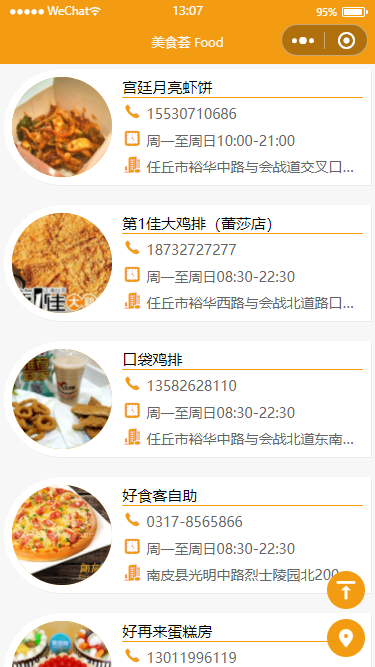
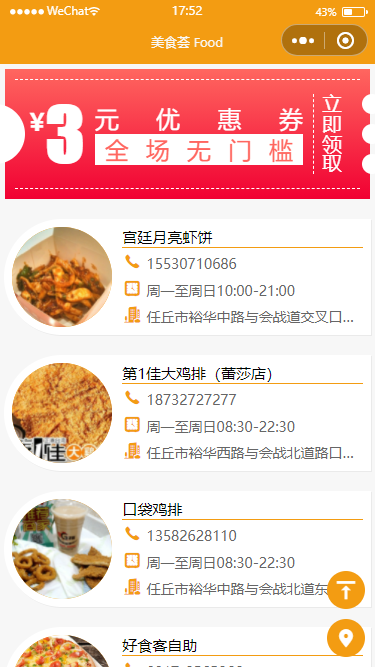
vue mp

diff --git a/minip/case9.html b/minip/case9.html
@@ -39,9 +39,13 @@
                 <div>项目创建 - 略</div>
                 <div>账号申请 - 略</div>
                 <div>SDK下载并引入 - 略</div>
-                <div>打开项目美食列表 <span class="warn">首页</span>，增加2个按钮，可以使用字体图标，固定定位fixed在视口右下角</div>
+                <div>打开项目美食列表项目</div>
+                <p><span class="warn">增加</span> 一个地图页面 map</p>
+                <p><span class="warn">增加</span> 一个优惠券页面 promotion</p>
+                <div>打开<span class="warn">首页</span>页面</div>
                 <p>增加一个返回顶部按钮，绑定事件toTop，点击后，返回到美食列表页</p>
                 <p>增加一个跳转地图按钮，绑定事件toMap，点击后，跳转到美食地图页面</p>
+                <p>增加优惠券内容，单击跳转到优惠券活动页面 - 包括新到、快过期、满折券、满减券、立减券等；略</p>
                 <pre>
 toTop() {
     wx.pageScrollTo({
@@ -52,16 +56,23 @@ toTop() {
         complete: () => console.log('scroll done')
     })
 },
+
 toMap() {
     wx.navigateTo({
         url: '../map/map',
+    })
+},
+
+toPromotion() {
+    wx.navigateTo({
+        url: '../promotion/promotion',
     })
 }</pre>
                 <figure class="img-sn">
                     <img src="./imgs/text1.png" alt="">
                     <figcaption>返回顶部和跳转到地图页</figcaption>
                 </figure>
-                <div><span class="warn">增加</span> 一个页面：地图 map；创建 wxml 结构如下</div>
+                <div>打开<span class="warn">地图</span>页面，创建 wxml 结构如下</div>
                 <pre>
 &lt;map 
     longitude="{{longitude}}" 
@@ -89,7 +100,7 @@ onLoad(options) {
         complete: () => console.log('get food done')
     })
 }</pre>
-                <div>使用经纬度封装搜索函数getHotel(long, lati)</div>
+                <div>使用经纬度封装搜索函数 getHotel(long, lati)</div>
                 <pre>
 getHotel(long, lati) {
     qqmapsdk.search({
@@ -139,7 +150,7 @@ getHotel(long, lati) {
         }
     })
 }</pre>
-                <div>移动地图时，数借助系统函数区域改变changeRegion()获取的结束点end位置来更新当前区域的餐厅信息</div>
+                <div>移动地图时，数借助系统函数区域改变 changeRegion() 获取的结束点end位置来更新当前区域的餐厅信息</div>
                 <pre>
 changeRegion(e) {
     if (e.type == 'end') {
@@ -165,6 +176,10 @@ doMarker(e){
                 <div>实验报告：采用学院统一下发的格式文件，以图片或代码形式展示并说明实施过程、各部分功能、具体内容和实现细节，并按照要求命名，最后导出为PDF，提交个人学习通作业</div>
                 <div>未按要求在规定时间内提交视为无效，不得分</div>
                 <div>相关格式规范，请参考 <a href="../course/paper.html">论文格式规范 Paper Prettier</a></div>
+            </dd>
+            <dt>拓展</dt>
+            <dd>
+                <div>修改搜索函数为 getHotel(long, lati, keyword)，根据参数 keyword 实现指定内容的搜索</div>
             </dd>
         </dl>
         <iframe src="../common/footer.html" frameborder="0" scrolling="no" title="footer" id="footer"></iframe>

diff --git a/minip/scroll.html b/minip/scroll.html
@@ -1,0 +1,80 @@
+<!DOCTYPE html>
+<html lang="en">
+
+<head>
+    <meta charset="UTF-8">
+    <meta http-equiv="X-UA-Compatible" content="IE=edge">
+    <meta name="viewport" content="width=device-width, initial-scale=1.0">
+    <title>滚动 Scroll</title>
+    <link rel="stylesheet" href="../css/common.css">
+    <base target="_blank">
+</head>
+
+<body>
+    <header>
+        <h1>滚动</h1>
+        <span>Scroll</span>
+    </header>
+    <dl>
+        <dd>实现页面或部分内容的滚动</dd>
+        <dt>wx.pageScrollTo(Object object)</dt>
+        <dd>将页面滚动到目标位置，支持 <span class="warn">选择器</span> 和 <span class="warn">滚动距离</span> 两种方式定位</dd>
+        <dd>更多信息，请访问 <a href="https://developers.weixin.qq.com/miniprogram/dev/api/ui/scroll/wx.pageScrollTo.html">官方文档
+                - pageScrollTo</a></dd>
+        <dd>
+            <table class="tbl-sn">
+                <caption>pageScrollTo常用属性</caption>
+                <tr>
+                    <th>参数</th>
+                    <th>说明</th>
+                </tr>
+                <tr>
+                    <td>scrollTop</td>
+                    <td>滚动到页面的目标位置；单位 px</td>
+                </tr>
+                <tr>
+                    <td>duration</td>
+                    <td>滚动动画时长；单位 ms；默认300</td>
+                </tr>
+                <tr>
+                    <td>selector</td>
+                    <td>选择器；仅仅支持ID、类、后代、并列等基本选择器</td>
+                </tr>
+                <tr>
+                    <td>offsetTop</td>
+                    <td>偏移距离，需要和 selector 参数搭配使用，可以滚动到 selector 加偏移距离的位置，单位 px</td>
+                </tr>
+            </table>
+        </dd>
+        <dd class="example-sn">返回顶部 - 将某个元素固定定位在页面底部，绑定事件；API使用如下</dd>
+        <dd>使用距离</dd>
+        <dd>
+            <pre>
+wx.pageScrollTo({
+    scrollTop: 0,
+    duration: 300,
+    success: res => console.log(res),
+    fail: err => console.log(err),
+    complete: () => console.log('scroll done')
+})</pre>
+        </dd>
+        <dd>使用选择器 - 顶部容器类为container</dd>
+        <dd>
+            <pre>
+wx.pageScrollTo({
+    selector:'.container',
+    duration: 300,
+    success: res => console.log(res),
+    fail: err => console.log(err),
+    complete: () => console.log('scroll done')
+})</pre>
+        </dd>
+        <dd class="example-sn">返回到页面某个元素 - 不太适合使用距离，因为需要知道元素的位置</dd>
+        <dd>
+            <pre></pre>
+        </dd>
+    </dl>
+    <iframe src="../common/footer.html" frameborder="0" scrolling="no" title="footer" id="footer"></iframe>
+</body>
+
+</html>

diff --git a/minip/index.html b/minip/index.html
@@ -140,8 +140,11 @@
     <div class="cont-wrap">
       <div class="title"><span>P9</span> <span class="iconfont icon-business-icon-sales-center-fill"></span> API 4</div>
       <a class="item" data-title="location" href="./location.html">Location</a>
-      <a class="item" data-title="LBS" href="https://lbs.qq.com/">Tencent LBS</a>
-      <a class="item" data-title="LBS" href="https://lbsyun.baidu.com/">Baidu LBS</a>
+      <a class="item" data-title="scroll" href="./scroll.html">Scroll</a>
+      <div>
+        <a class="item" data-title="LBS" href="https://lbs.qq.com/">Tencent LBS</a>
+        <a class="item" data-title="LBS" href="https://lbsyun.baidu.com/">Baidu LBS</a>
+      </div>
       <a class="item" data-title="case1" href="./case9.html">Case9 美食地图</a>
     </div>
     <img src="./imgs/cover9.png" alt="">

diff --git a/web/input_other.html b/web/input_other.html
@@ -7,6 +7,7 @@
   <meta name="viewport" content="width=device-width, initial-scale=1.0">
   <title>更多输入 input</title>
   <link rel="stylesheet" href="./css/style.css">
+  <link rel="stylesheet" href="../css/code.css">
   <link rel="stylesheet" href="./css/form.css">
 </head>
 

diff --git a/web/function.html b/web/function.html
@@ -7,6 +7,7 @@
   <meta name="viewport" content="width=device-width, initial-scale=1.0">
   <title>CSS函数 Function</title>
   <link rel="stylesheet" href="./css/styleNew.css">
+  <link rel="stylesheet" href="../css/code.css">
   <base target="_blank">
   <style>
     .fn-var-bg {

diff --git a/web/variable.html b/web/variable.html
@@ -7,6 +7,7 @@
   <meta name="viewport" content="width=device-width, initial-scale=1.0">
   <title>CSS变量 Variable</title>
   <link rel="stylesheet" href="./css/styleNew.css">
+  <link rel="stylesheet" href="../css/code.css">
   <style>
     :root {
       --main-color: #01b4ff;

diff --git a/web/details.html b/web/details.html
@@ -7,6 +7,7 @@
   <meta name="viewport" content="width=device-width, initial-scale=1.0">
   <title>Details</title>
   <link rel="stylesheet" href="./css/styleNew.css">
+  <link rel="stylesheet" href="../css/code.css">
   <style>
     .indent summary::marker {
       content: '+ ';

diff --git a/web/css.html b/web/css.html
@@ -9,6 +9,7 @@
   <link rel="stylesheet" href="./css/styleNew.css">
   <link rel="stylesheet" href="./css/font_3870259_fog2voarz7/iconfont.css">
   <link rel="stylesheet" href="./css/web.css">
+  <link rel="stylesheet" href="../css/code.css">
   <base target="_blank">
 </head>
 

diff --git a/web/iframe.html b/web/iframe.html
@@ -7,6 +7,7 @@
   <meta name="viewport" content="width=device-width, initial-scale=1.0">
   <title>内联框架 iframe</title>
   <link rel="stylesheet" href="./css/styleNew.css">
+  <link rel="stylesheet" href="../css/code.css">
   <style>
     .a-wrap {
       display: flex;

diff --git a/web/file.html b/web/file.html
@@ -10,6 +10,7 @@
   <link rel="stylesheet" href="./css/file.css">
   <!-- <script type="text/javascript" src="../../js/xlsx.core.min.js"></script> -->
   <script src="../utils/lib/xlsx.core.min.js"></script>
+  <link rel="stylesheet" href="../css/code.css">
 </head>
 
 <body>

diff --git a/web/canvas.html b/web/canvas.html
@@ -7,6 +7,7 @@
   <meta name="viewport" content="width=device-width, initial-scale=1.0">
   <title>画布 Canvas</title>
   <link rel="stylesheet" href="./css/styleNew.css">
+  <link rel="stylesheet" href="../css/code.css">
   <style>
     .canvas {
       display: flex;

diff --git a/web/codepen.html b/web/codepen.html
@@ -6,6 +6,7 @@
   <meta name="viewport" content="width=device-width, initial-scale=1.0">
   <title>CodePen</title>
   <link rel="stylesheet" href="./css/web2023.css">
+  <link rel="stylesheet" href="../css/code.css">
   <base target="_blank">
   </style>
 </head>
